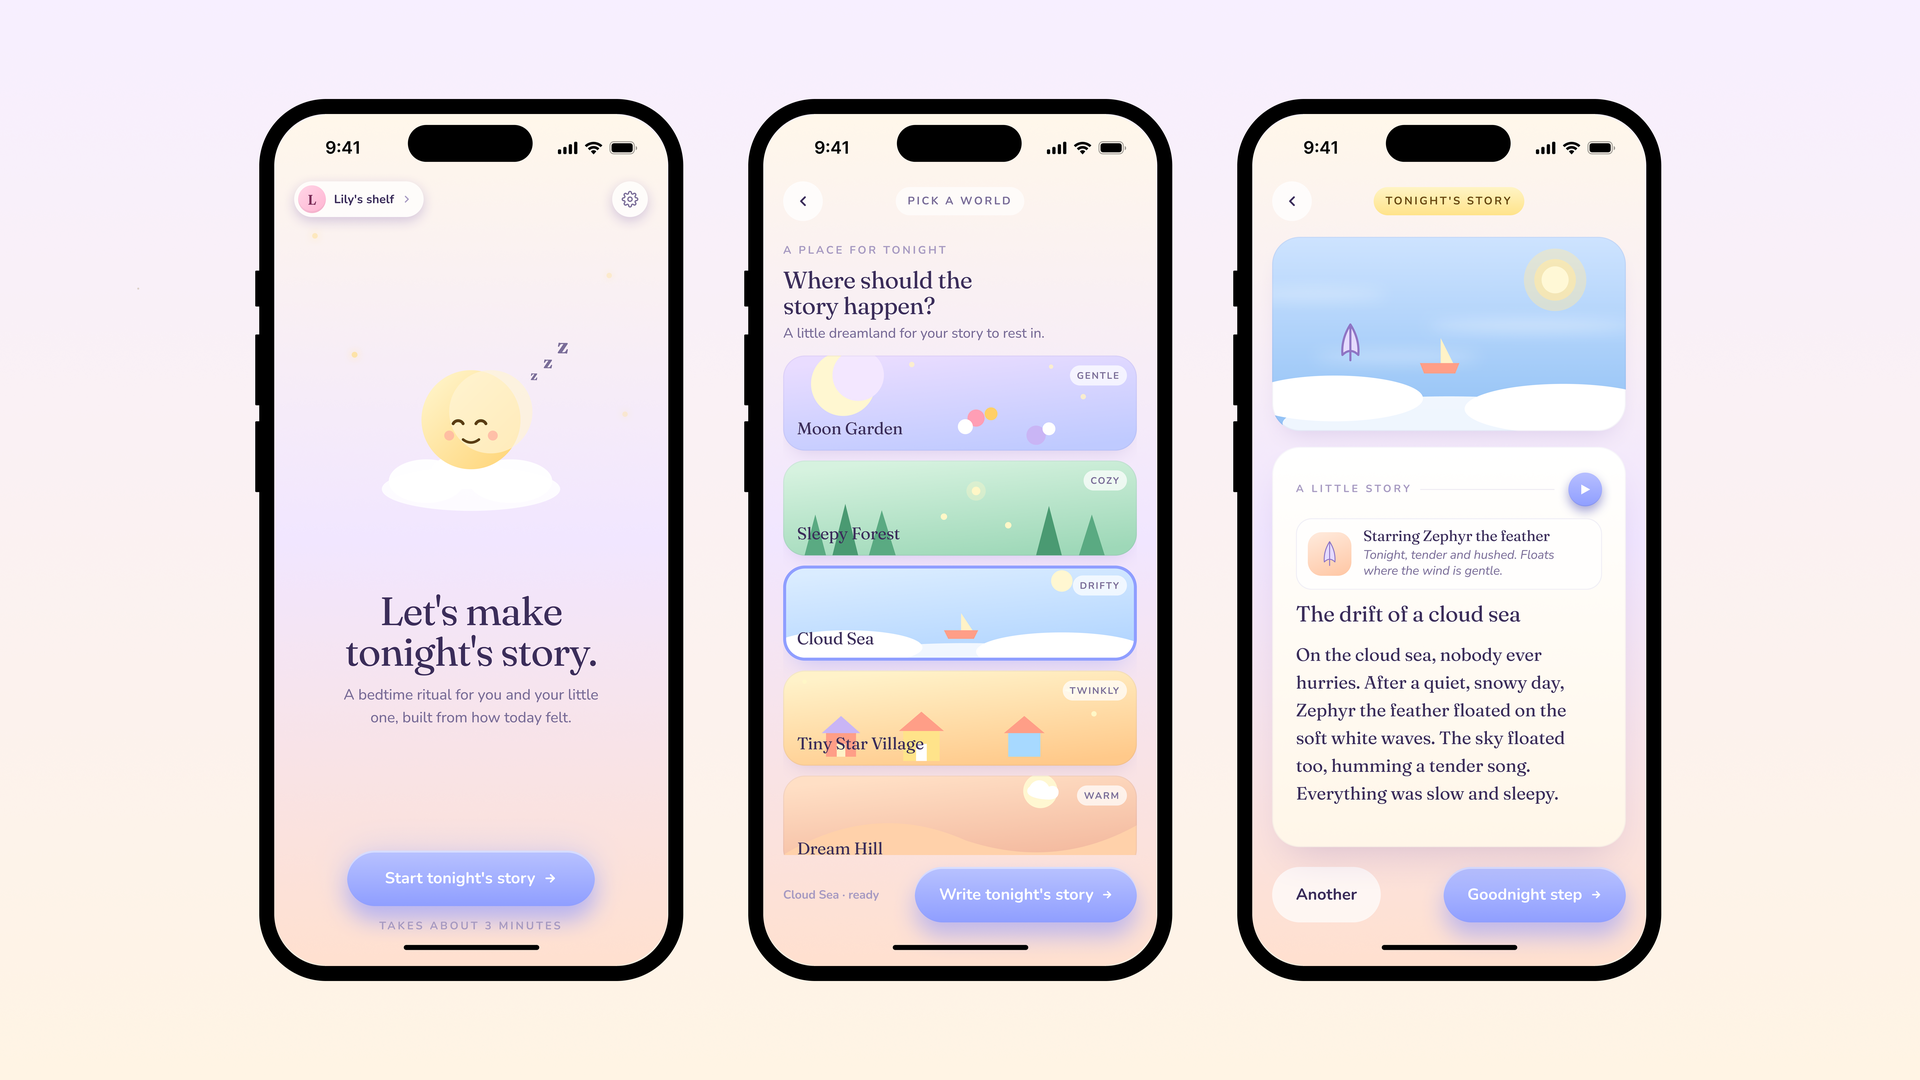
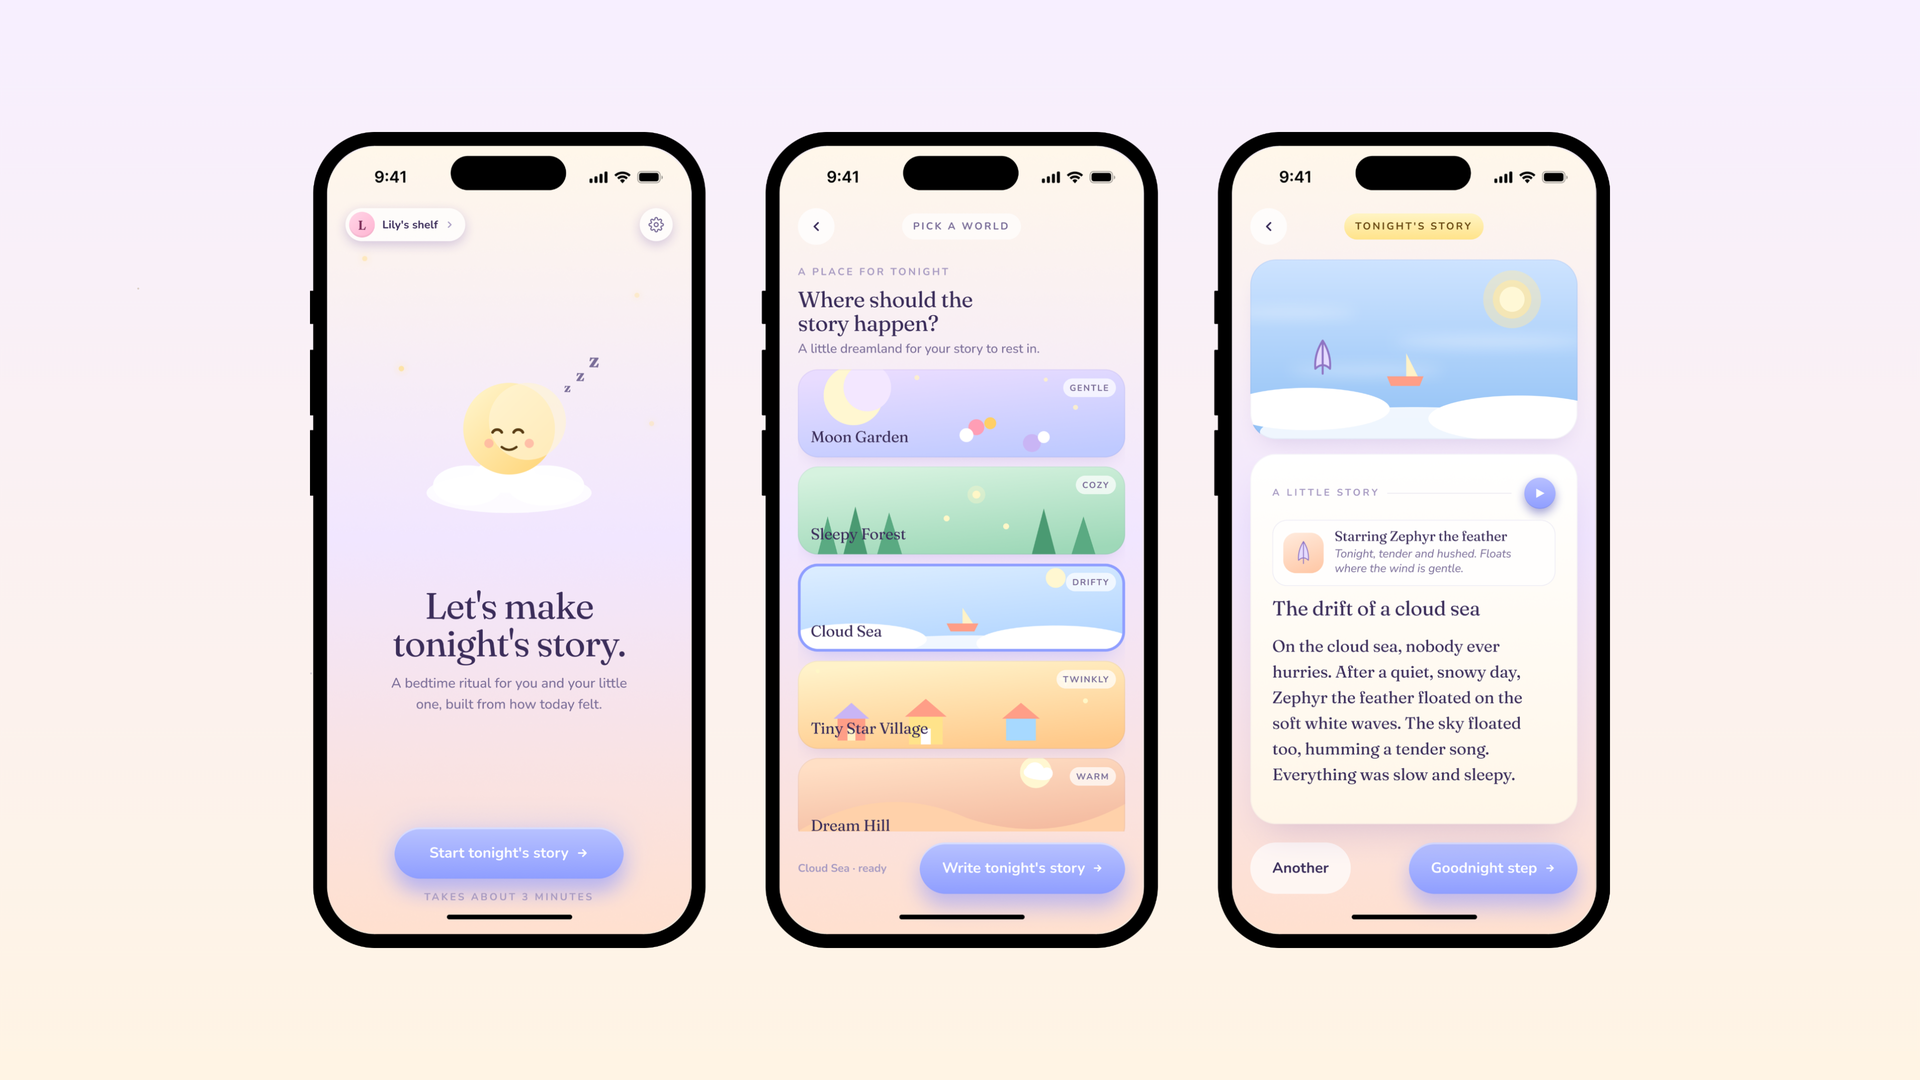
StoryBloom card: Red Dot 2026 badge + recomposed cover (badges lead with Red Dot)
- Add images/reddot-winner-2026.svg (30px, vector) to the card's award row,
  ordered before the NY Silver 2026 medallion
- Replace storybloom-card.png with the recomposed 1920x1080 cover (smaller
  phones, top-left corner clear of the badge row), ?v=4 cache-bust

Changed region(s): [[0.125, 0.0917, 0.875, 0.9167], [0.2188, 0.3361, 0.3125, 0.4583]]

diff --git a/index.html b/index.html
@@ -139,8 +139,8 @@
 
       <a href="https://www.storybloom.tech/app" target="_blank" rel="noopener" class="project-card">
         <div class="project-img" style="background-color: #EEE3F0; display: flex; align-items: center; justify-content: center; position: relative;">
-          <div class="card-awards"><img src="images/ny-product-design-silver-2026.png" alt="NY Product Design Award Silver 2026" style="height: 30px;"></div>
-          <img src="images/storybloom-card.png" alt="StoryBloom" style="width: 100%; height: 100%; object-fit: cover; display: block;">
+          <div class="card-awards"><img src="images/reddot-winner-2026.svg" alt="Red Dot Award Winner 2026" style="height: 30px;"><img src="images/ny-product-design-silver-2026.png" alt="NY Product Design Award Silver 2026" style="height: 30px;"></div>
+          <img src="images/storybloom-card.png?v=4" alt="StoryBloom" loading="lazy" decoding="async" style="width: 100%; height: 100%; object-fit: cover; display: block;">
         </div>
         <div class="project-info">
           <div class="project-info-left">

diff --git a/CLAUDE.md b/CLAUDE.md
@@ -28,7 +28,7 @@ Product designer portfolio. Static HTML/CSS/JS site (no framework). Dark mode, m
 - **Footer:** Big "Say hello" watermark (scroll reveal). **Footer structure (restructured 2026-06-15):** the giant "Say hello" watermark lives in its **own `.say-hello` section** (`padding-top: 160px`, holds `.footer-big`), **NOT inside `<footer>`** — `<footer>` now holds only the `.footer-bottom` links bar. Both, plus `.footer-glow`, are wrapped in a **`.page-end` container** (`position: relative; overflow: hidden`) that **owns the glow** so it spans behind BOTH "Say hello" and the links bar and is clipped exactly at the page bottom. **Why two problems forced this:** (1) when "Say hello" + the links bar shared `<footer>` (links pulled up via `.footer-bottom { margin-top: -80px }`), the watermark **overlapped the LinkedIn link at narrow desktop widths** (the `-80px` was removed); (2) a first fix that put the glow only inside `.say-hello` left a **black gap at the page bottom** (glow stopped ~22px short of the edge) — the `.page-end` wrapper clips the glow at the bottom edge instead, so warm reaches the bottom with no gap. **JS wiring:** the glow-sizing scroll effect targets `.page-end` (`footerSection`); the letter-spotlight hover targets `.say-hello` (`footerEl`), **gated to the word's own bounding box** (first/last letter `getBoundingClientRect` + a 16px pad, added 2026-06-17): the handler only measured *horizontal* distance to each letter and listened on the whole `.say-hello`, so a cursor anywhere in the section's 160px top padding lit letters from far above the text while showing no hand cursor (the `<a>` is `pointer-events:none`, only the glyphs are `auto`) — the gate now resets the letters whenever the cursor leaves the word's box, so the lit area matches the hand-cursor area; applied to all 4 pages carrying this footer interaction (index/coffee/homewise/ticker). The "Say hello" reveal is rect-based on `.footer-big-text` (index uses the scroll-cta-gated reveal, the other pages an IntersectionObserver — both unaffected). **Mobile (≤768px) — carries the full glow + dissolve as of 2026-06-18** (it used to hide the whole footer block — `.say-hello`/`.footer-big`/`.footer-glow`/`.px-dissolve` all `display:none` — leaving a bare links row the user found "too simple"; they wanted desktop-level richness): now `.footer-glow` + `.px-dissolve` are **shown**, `.say-hello` stays as the glow band (`padding-top: 180px` on mobile — bumped from 130px 2026-06-18 to give the dissolve room to breathe without the empty band becoming a void) but **only the giant text (`.footer-big-text`) and the © line (`.footer-copy`) are hidden** — `.footer-big` stays in flow at 0 height so it still serves as the dissolve's `data-stop` marker (no JS change). The links bar centers over the glow. **The dissolve animates on mobile too** (same as desktop). **Decision history (2026-06-18, do NOT re-introduce static):** a static-on-mobile variant was tried and reverted the same day — the engine's `reduce` flag briefly OR'd in `matchMedia('(max-width: 768px)')` to skip the rAF loop, but we landed on **animated everywhere** for one consistent footer signature + the craft moment on mobile (where much portfolio viewing happens). The battery/accessibility worry is already covered: the dissolve is **IntersectionObserver-gated** (runs only while the footer is on-screen) and **still falls back to a static frame under `prefers-reduced-motion`**, so motion/battery-sensitive users opt out at the OS level without flattening it for everyone. The © line "© 2026 Chang Mou · Built with Claude Code" shows on **desktop only** (user dropped it from mobile 2026-06-18). All 8 pages share the identical `.page-end` block. Left line: "© 2026 Chang Mou · Built with Claude Code" (was "Designed in the fog" — moved here from the hero in 2026-05-14 so the hero could carry the hire-state signal). Right side: LinkedIn / Email / Resume. **Footer text brightened 2026-06-15** (`.footer-copy` → rgba(255,255,255,0.8), `.footer-links a` → 0.92, both + `text-shadow: 0 1px 4px rgba(0,0,0,0.4)`) so it stays legible over the vivid glow. **Footer glow is the hero's REFLECTION (2026-06-15):** `.footer-glow` is now a smooth **vertical linear gradient** (NOT radial blobs — radials showed a visible blob shape/edge the user rejected) that mirrors g2 — **blue at the inside (top) → pink → red → warm/amber at the bottom**, the reverse of the hero's warm-top→blue, so warm bookends the page top & bottom and blue faces inward (the "mirror" idea from the reference image). It's shapeless + vivid (~0.6–0.68 alpha). The **top** fades from `transparent` (0%) to blend into the dark page above; the **bottom ends on amber** (`rgba(255,190,35,0.64)` at both 88% AND 100%), **NOT transparent** — the page ends at the bottom edge, so a transparent bottom stop just revealed the black background. That was the **"black gap below the footer" (fixed 2026-06-15)**; keep the bottom stop warm. Shared CSS → applies to the footer on **every page**.
 - **Project cards:** #1a1a1a background, 1px solid rgba(255,255,255,0.08) border, border glow on hover (box-shadow), image zoom + 3px lift on hover (`scale(1.04) translateY(-3px)`). Title 18px, year 16px right-aligned, description 16px muted with 8px gap. Description reserves 2-line min-height so the tag row below aligns horizontally across cards even when one description fits in a single line. **Thumbnail material language (2026-06-11):** floating screenshots cast a contact shadow on their plates (`.project-img > img { filter: drop-shadow(0 16px 28px rgba(0,0,0,0.16)) }`, deepens on hover — the direct-child selector keeps award badges/overlays exempt), and every flat plate fill uses PollenNav's two-radial light treatment in the card's own hue (`radial-gradient(ellipse at 30% 30%, LIGHT…), radial-gradient(ellipse at 70% 70%, DEEP…), BASE` inline on `.project-img`) — highlight upper-left, deeper pool lower-right, so the grid reads as six consistent lit scenes. New cards should follow both. StoryBloom is exempt from the plate treatment (full-bleed cover hides its plate). **NOVA is also an exception (2026-06-18): its plate is a flat `#FFFFFF`, NOT the two-radial treatment.** `images/nova-card.png` is a transparent product shot of the AR glasses with a soft drop shadow baked as if rendered on white, so the plate must be pure white — anything darker (incl. the radial treatment's lower-right pool, which lands right where the shadow sits) shows a light halo around the shadow. Keep NOVA flat white; do NOT "restore" the radial treatment.
 - **Card meta chips:** `.card-meta` container holds 2–3 `.card-tag` chips below each project description. Tags are 11px uppercase, 1px stroke border (rgba 0.12), 4px radius, mute color (rgba 0.55). Pattern: `[Domain] · [Form factor] · [Status]` (e.g. `B2B SaaS · Dashboard · Shipped`, `Health · Mobile App · Award Winner`). Hidden on mobile (≤768px) since stacked cards already show full descriptions. **Project-type chip (`.card-tag--type`, added 2026-06-17):** a filled chip (bg + border `rgba(255,255,255,0.16)`, text `0.92`) that **leads** each home-card meta row, labeling the work `Professional` / `Personal` / `Academic`. Set apart from the stroke descriptor chips by **fill weight, NOT color** — deliberate: the user asked whether to color it and the answer was no, because the site rule is *chrome stays neutral, color is reserved* (e.g. NOVA's `#0094FF`) and the colorful thumbnails already carry the grid's color (per-type color-coding was also rejected). Labels are authoritative from each case study's own meta Type field: Homewise + Litespace Coffee Chat = Professional, PollenNav = Personal, NOVA = Academic (its page says "Sponsored Academic", shortened to "Academic" on the card). StoryBloom + Countersign have no in-repo case study → labeled **Personal** by inference (Countersign = solo repo; StoryBloom = self-initiated 2026 product); revisit if either is really Professional/Academic.
-- **Card award badges:** `.card-awards` is an absolutely-positioned (top:12px, left:12px) flex row inside `.project-img`. Default badge height is 26px (`.card-awards img { height: 26px }`). PollenNav uses this default for its row of 4 horizontal-wordmark badges (iF, Red Dot, NY, European). **Override for lone portrait badges:** when a card has a single portrait-orientation badge (e.g. StoryBloom's NY Silver 2026 medallion), set `style="height: 30px"` inline on that img — the lone medallion reads too small against a single thumbnail at 26px because portrait badges have ~2.5× less surface area than landscape wordmarks at equal height. 30px brings the visible area into the same order of magnitude as the surrounding card content without going as bold as 32–38px (which made the badge feel larger than the matching NY 2025 sibling on PollenNav). Parent `.project-img` must have `position: relative` for absolute anchoring to work.
+- **Card award badges:** `.card-awards` is an absolutely-positioned (top:12px, left:12px) flex row inside `.project-img`. Default badge height is 26px (`.card-awards img { height: 26px }`). PollenNav uses this default for its row of 4 horizontal-wordmark badges (iF, Red Dot, NY, European). **Override for lone portrait badges:** when a card has a single portrait-orientation badge (e.g. StoryBloom's NY Silver 2026 medallion), set `style="height: 30px"` inline on that img — the lone medallion reads too small against a single thumbnail at 26px because portrait badges have ~2.5× less surface area than landscape wordmarks at equal height. 30px brings the visible area into the same order of magnitude as the surrounding card content without going as bold as 32–38px (which made the badge feel larger than the matching NY 2025 sibling on PollenNav). Parent `.project-img` must have `position: relative` for absolute anchoring to work. **StoryBloom badges updated 2026-07-22 (per user):** `images/reddot-winner-2026.svg` (Red Dot Winner 2026 stacked lockup, kept as vector; note the SVG has NO width/height attrs — fine in `<img>`, but a standalone/document render needs them injected) added at 30px and ordered FIRST, before the NY medallion (order swapped per user). The StoryBloom cover was also replaced the same day with a user-recomposed 1920×1080 export (phones smaller, top-left clear for the badge row — the old cover's phones collided with the badges; rasterized from the user's Figma SVG via headless Chrome at 2×, downscaled to 1920 PNG lossless, 548KB, `?v=4` cache-bust on the img src). Full-bleed `object-fit: cover` treatment retained (a briefly-tried 65%-plate/Homewise-style cutout treatment was discarded when the new cover landed).
 - **Chatbot:** Dark background, white icon, white rotating conic-gradient border (0.5 opacity).
 - **Layout:** Vertical single-column on about, single-column on play, 2-col project grid on home
 - **Mobile:** Hamburger menu → full-screen overlay. No footer watermark on mobile.
